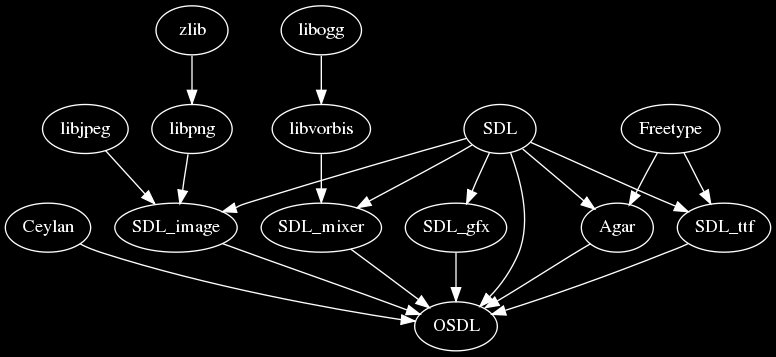
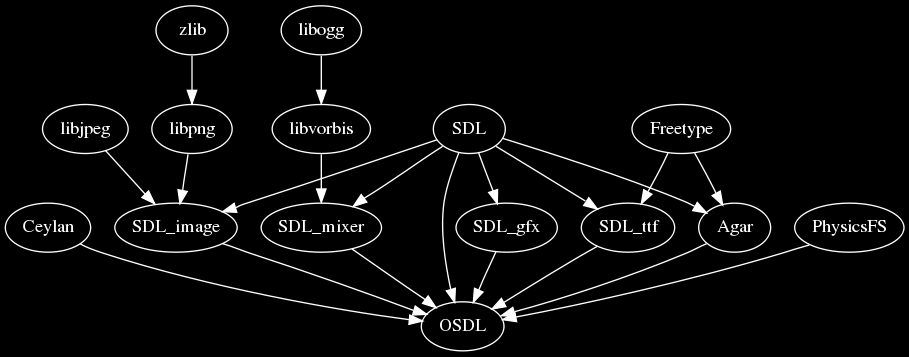
PhysicsFS support documented.

diff --git a/src/doc/web/OSDL-0.5/LOANI.html b/src/doc/web/OSDL-0.5/LOANI.html
@@ -220,6 +220,8 @@ Following first-order dependencies are selected:
 
 	<li><a href="http://libagar.org/" target="_blank">Agar</a>: a toolkit for graphical applications (GUI) that can make use of OpenGL. Uses SDL</li>
 	
+	<li><a href="http://icculus.org/physfs/" target="_blank">PhysicsFS</a>: a library to provide abstract access to various archives, so that the user cannot mess with application data too easily</li>
+	
 	<li><a href="http://sources.redhat.com/pthreads-win32/" target="_blank">pthreads Win32</a>: a way to have Windows being POSIX-compliant for threads (not used currently)</li>	
 	
 	<li><a href="http://www.gnu.org/software/libtool/libtool.html" target="_blank">libtool</a>: GNU tool to perform builds in a cross-platform way (UNIX only)</li>	
@@ -505,7 +507,7 @@ Its purpose is to have OSDL and all its pre requesites installed with the minimu
 Warning: No prefix specified and not run as root (which is recommended indeed): adding prefix /home/tester/LOANI-0.6/LOANI-installations.
 Retrieving all pre requesites, pipe-lining when possible.
 Target package list is &lt;libtool SDL libjpeg zlib libpng SDL_image SDL_gfx freetype SDL_ttf libogg libvorbis SDL_mixer Ceylan OSDL&gt;.
-Some tools already available (libtool SDL libjpeg zlib libpng SDL_image SDL_gfx freetype SDL_ttf libogg libvorbis SDL_mixer Agar), others will be downloaded (Ceylan OSDL).
+Some tools already available (libtool SDL libjpeg zlib libpng SDL_image SDL_gfx freetype SDL_ttf libogg libvorbis SDL_mixer Agar PhysicsFS), others will be downloaded (Ceylan OSDL).
 Retrieving Ceylan from developer SVN with user name wondersye.
       ----&gt; getting Ceylan from SVN with user name wondersye (check-out)
       &lt;---- Ceylan retrieved [from SVN]
@@ -526,6 +528,7 @@ All pre requesites available.
       ----&gt; libvorbis  : extracting [OK] configuring [OK] building [OK] installing [OK]
       ----&gt; SDL_mixer  : extracting [OK] configuring [OK] building [OK] installing [OK]
       ----&gt; Agar       : extracting [OK] configuring [OK] building [OK] installing [OK]
+      ----&gt; PhysicsFS  : extracting [OK] configuring [OK] building [OK] installing [OK]
       ----&gt; Ceylan     : extracting [OK] configuring [OK] building [OK] installing [OK]
       ----&gt; OSDL       : extracting [OK] configuring [OK] building [OK] installing [OK]
 Post-install cleaning of build trees.
@@ -939,7 +942,7 @@ We hope you will enjoy using LOANI and OSDL !
     [<a href="#_top_">Top</a>]
 	<br>
     <br>
-    <em>Last update: Sunday, July 27, 2008</em>	
+    <em>Last update: Sunday, September 21, 2008</em>	
   </center>
 </body>
 </html>
